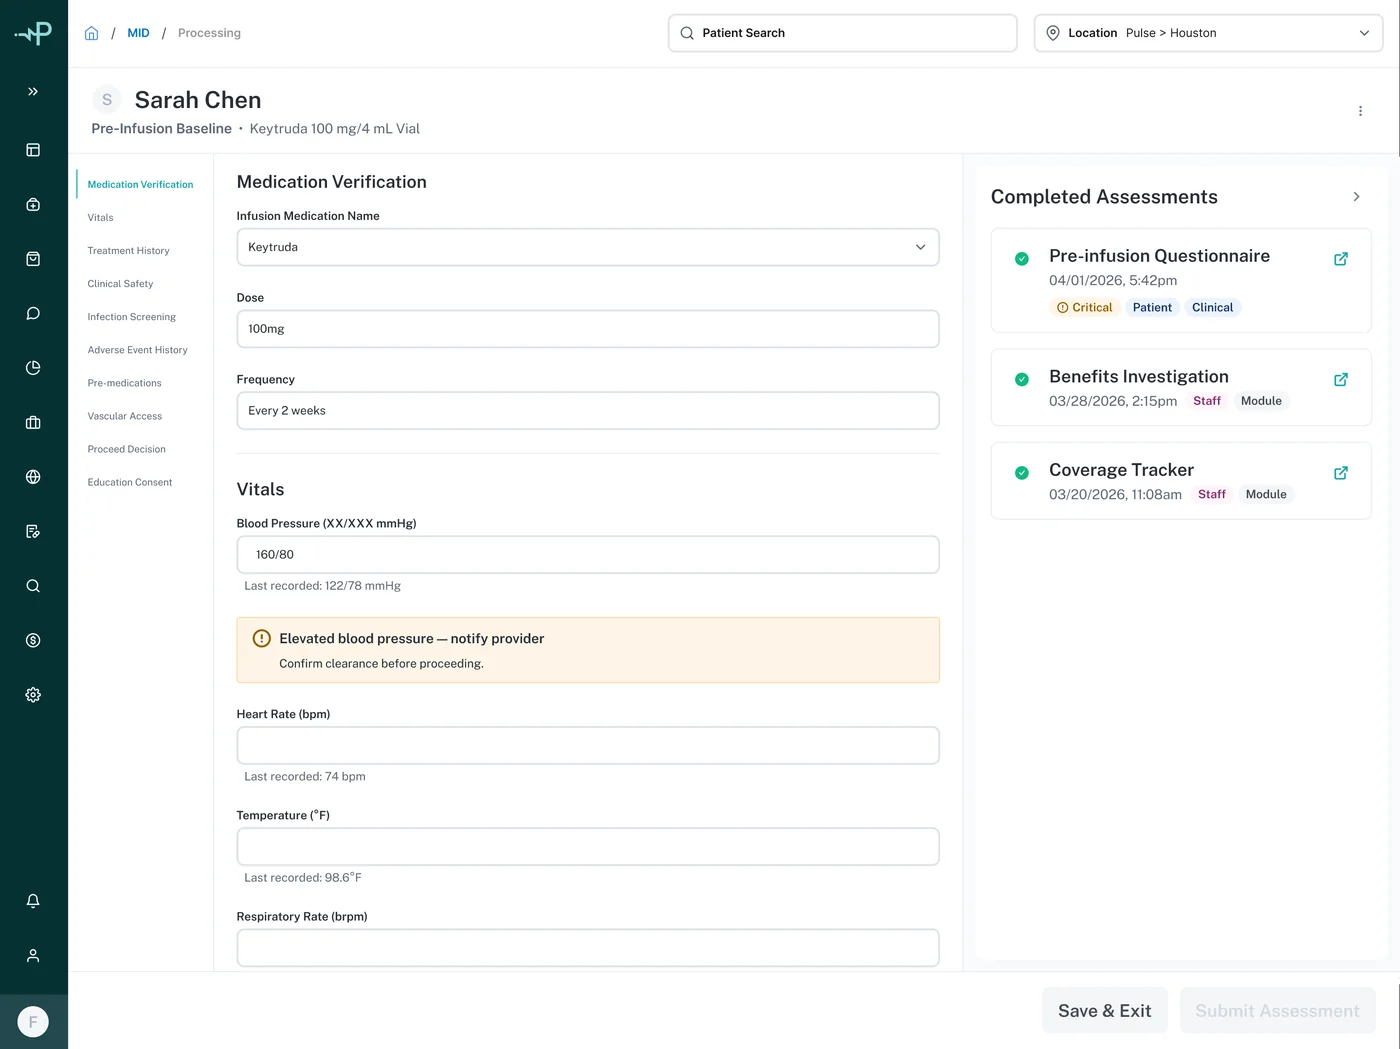
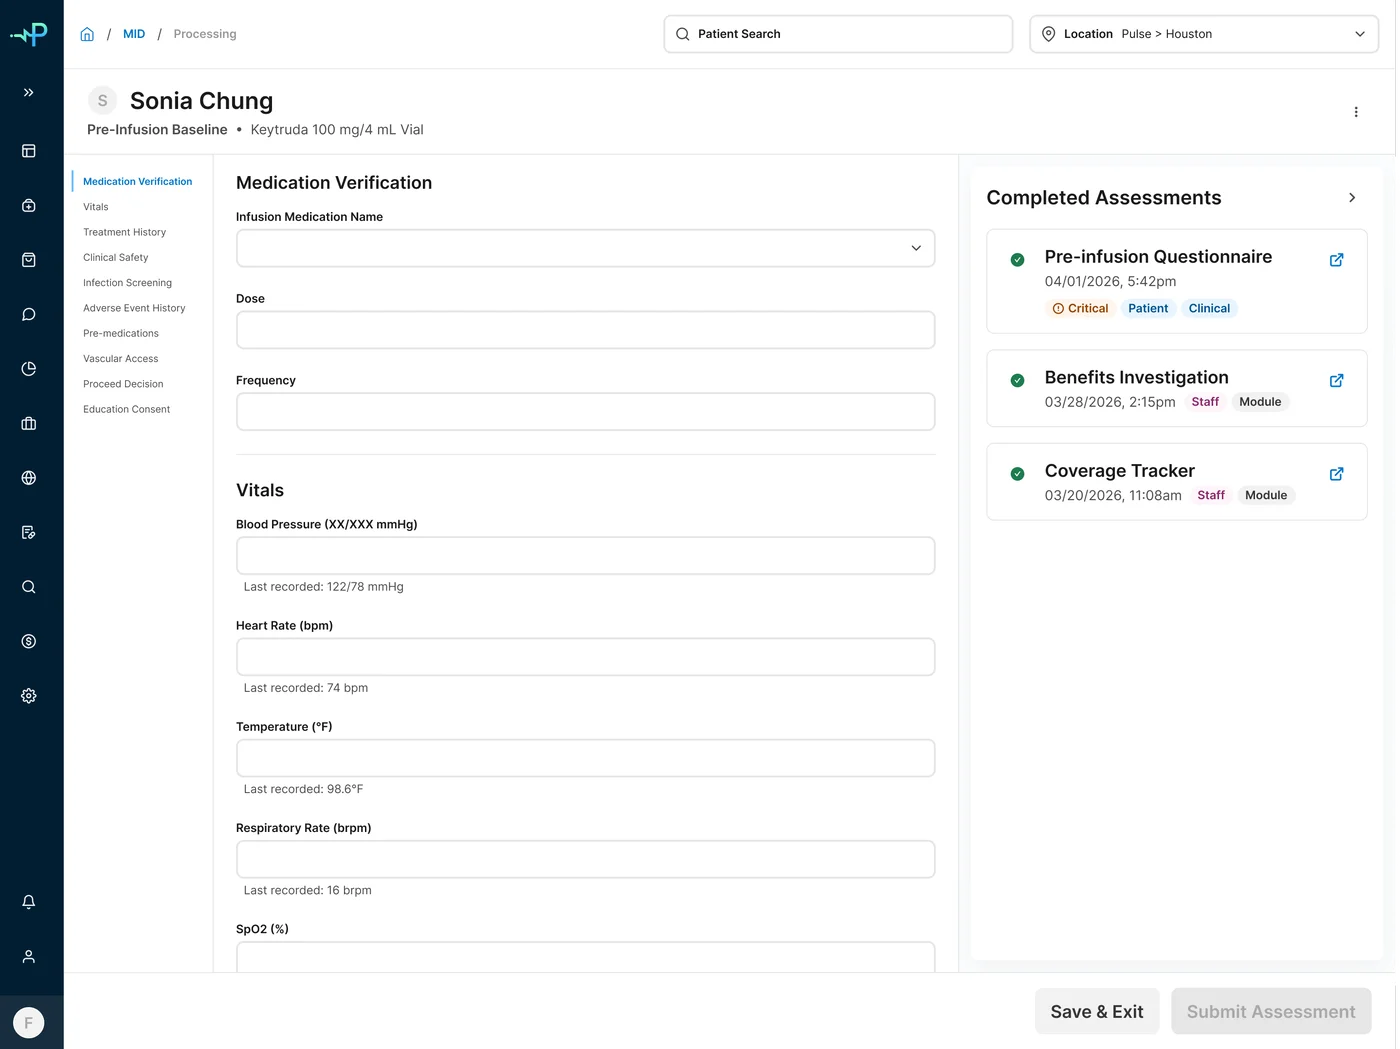
content: assessment image uses Sonia Chung
Swaps the Processing Assessments view to the Figma re-export with
Sonia Chung's empty-state form (no blood-pressure alert in this
capture) and updates the alt text to match. The new export
(2904x2160) is cropped to the existing large size (2877x2156) rather
than stretched, then scaled to the existing display size, same
filenames.

diff --git a/onepulse-connect.html b/onepulse-connect.html
@@ -154,7 +154,7 @@
           </figure>
           <figure class="case-figure">
             <div class="case-visual">
-              <img class="case-visual__image case-visual__image--assessmentexample" src="images/ds_assessmentexample.webp" alt="OnePulse Connect Processing Assessments view for patient Sarah Chen, showing a multi-step Pre-Infusion Baseline form with medication verification and vitals fields alongside a Completed Assessments panel of status cards." loading="lazy" data-lightbox-src="images/large/ds-assessmentexample.webp" tabindex="0" role="button">
+              <img class="case-visual__image case-visual__image--assessmentexample" src="images/ds_assessmentexample.webp" alt="OnePulse Connect Processing Assessments view for patient Sonia Chung, showing a multi-step Pre-Infusion Baseline form with medication verification and vitals fields alongside a Completed Assessments panel of status cards." loading="lazy" data-lightbox-src="images/large/ds-assessmentexample.webp" tabindex="0" role="button">
             </div>
             <figcaption class="case-figure__caption">Processing Assessments, from the Pre-Infusion flow. Designed from the system for a flow that wasn't built into production, covered in my <a href="pre-infusion-assessment-flow.html">Pre-Infusion case study</a>. Patient, medication, and dose are sample data.</figcaption>
           </figure>
